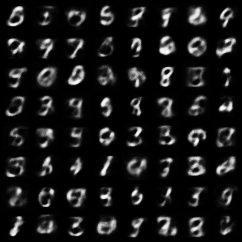
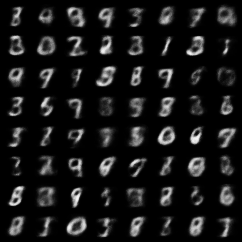
update model architecture and add generated samples

diff --git a/src/vae.py b/src/vae.py
@@ -18,7 +18,7 @@ parser.add_argument(
 parser.add_argument(
     "--epochs",
     type=int,
-    default=10,
+    default=30,
     metavar="N",
     help="number of epochs to train (default: 10)",
 )
@@ -77,14 +77,17 @@ class VAE(nn.Module):
         super(VAE, self).__init__()
 
         self.fc1 = nn.Linear(784, 400)
-        self.fc21 = nn.Linear(400, 20)
-        self.fc22 = nn.Linear(400, 20)
-        self.fc3 = nn.Linear(20, 400)
-        self.fc4 = nn.Linear(400, 784)
+        self.fc2 = nn.Linear(400, 200)
+        self.fc31 = nn.Linear(200, 20)
+        self.fc32 = nn.Linear(200, 20)
+        self.fc4 = nn.Linear(20, 200)
+        self.fc5 = nn.Linear(200, 400)
+        self.fc6 = nn.Linear(400, 784)
 
     def encode(self, x):
         h1 = F.relu(self.fc1(x))
-        return self.fc21(h1), self.fc22(h1)
+        h2 = F.relu(self.fc2(h1))
+        return self.fc31(h2), self.fc32(h2)
 
     def reparameterize(self, mu, logvar):
         std = torch.exp(0.5 * logvar)
@@ -92,8 +95,9 @@ class VAE(nn.Module):
         return mu + eps * std
 
     def decode(self, z):
-        h3 = F.relu(self.fc3(z))
-        return torch.sigmoid(self.fc4(h3))
+        h3 = F.relu(self.fc4(z))
+        h4 = F.relu(self.fc5(h3))
+        return torch.sigmoid(self.fc6(h4))
 
     def forward(self, x):
         mu, logvar = self.encode(x.view(-1, 784))
